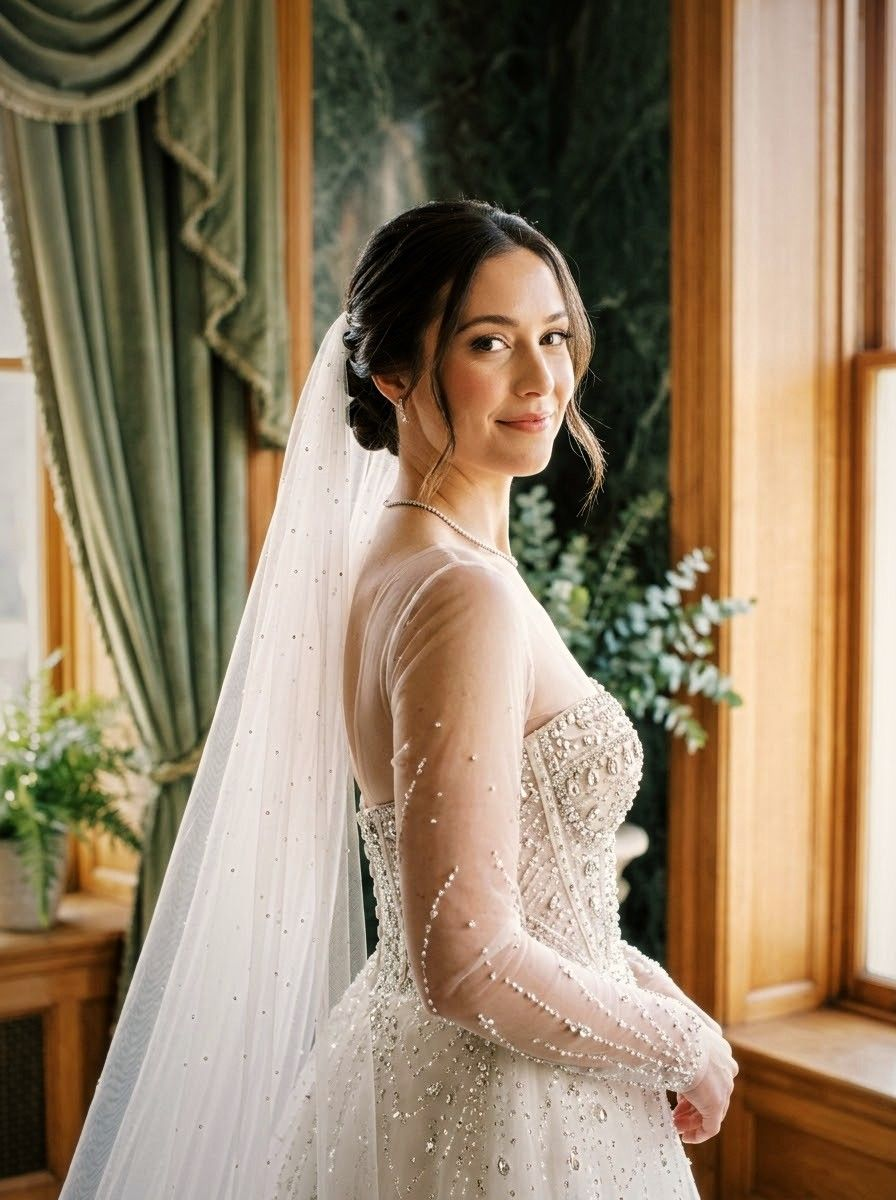
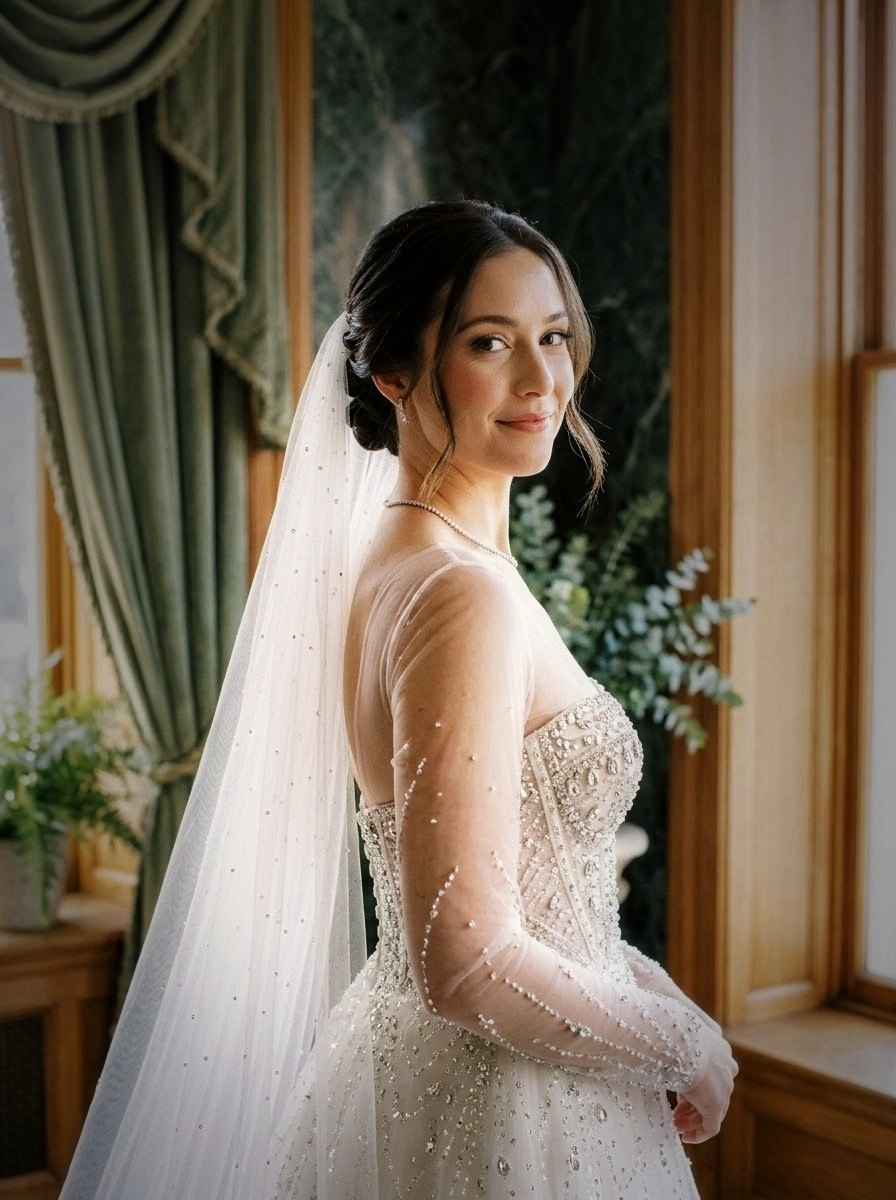
Taste section: softer dress look, groom walk to the gate, bride's choice after the wedding
- Dress designer photo: softer dramatic grade
- Groom tab: same garden shot from behind, couple close then at the gate
- Bride tab: her choice is talked over together after the wedding

diff --git a/index.html b/index.html
@@ -100,10 +100,10 @@
     <div class="ts-photo" data-mode="one">
       <img class="base" data-k="base" src="assets/taste_base.jpg?v=4" alt="عروسة بفستان مطرّز بالكريستال في صالون بستاير خضرا">
       <img class="layer" data-k="makeup" src="assets/taste_makeup.jpg?v=4" alt="" loading="lazy">
-      <img class="layer" data-k="dress" src="assets/taste_dress.jpg?v=6" alt="" loading="lazy">
+      <img class="layer" data-k="dress" src="assets/taste_dress.jpg?v=8" alt="" loading="lazy">
       <img class="layer" data-k="photog" src="assets/taste_photog.jpg?v=6" alt="" loading="lazy">
-      <img class="groom" data-k="groom" src="assets/taste_groom.jpg?v=5" alt="العريس والعروسة ماشيين بعيد في ممر الجنينة" loading="lazy">
-      <img class="groom2" src="assets/taste_groom2.jpg?v=5" alt="لقطة درون للعريس بيجري وساحب العروسة" loading="lazy">
+      <img class="groom" data-k="groom" src="assets/taste_groom.jpg?v=6" alt="العريس والعروسة من ضهرهم في أول ممر الجنينة" loading="lazy">
+      <img class="groom2" src="assets/taste_groom2.jpg?v=8" alt="العريس والعروسة وصلوا لبوابة الجنينة" loading="lazy">
       <span class="who"></span>
     </div>
     <div class="ts-side">
@@ -121,6 +121,7 @@
           <div class="ts-sw"><span><i style="background:#736B49"></i>Sage</span><span><i style="background:#9B653C"></i>Oak</span><span><i style="background:#F3D4B9"></i>Ivory</span></div></div>
         <div class="ts-panel" data-k="groom" hidden><p class="ts-say">«هو بس <b>عايز ياخدها ويروّح</b> 😅»</p><p class="ts-why">ماسك إيدها وخلاص… والصور؟ بعدين.</p></div>
         <div class="ts-panel" data-k="you" hidden><p class="ts-say">لكن إحنا بنهتم <b>انتي عايزة إيه</b>… ونعمله.</p>
+          <p class="ts-why">ومش لازم تقرري دلوقتي… اختيارك ده بنقعد نتناقش فيه سوا <b>بعد الفرح</b>، واحنا بنعدّل صورك.</p>
           <div class="ts-mix">
             <label>نعومة<input type="range" name="makeup" min="0" max="100" value="40"><output></output></label>
             <label>لمعة الفستان<input type="range" name="dress" min="0" max="100" value="35"><output></output></label>
